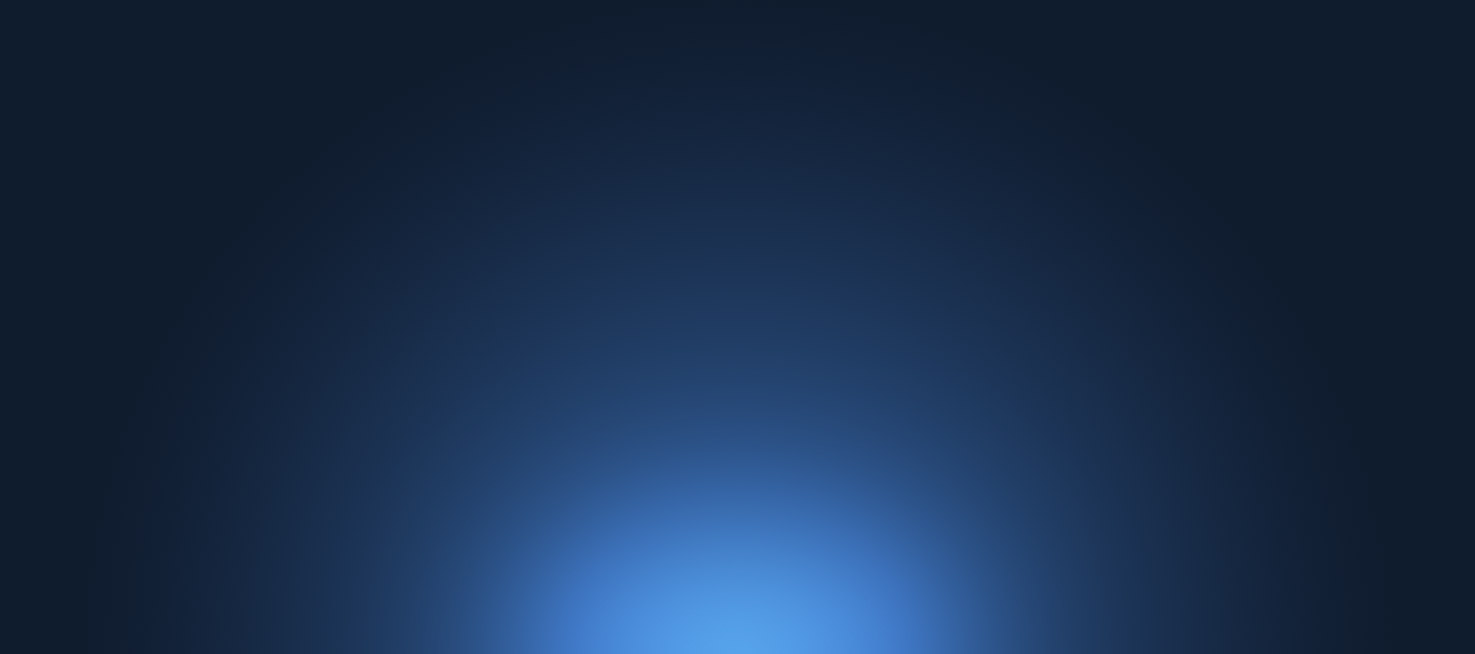
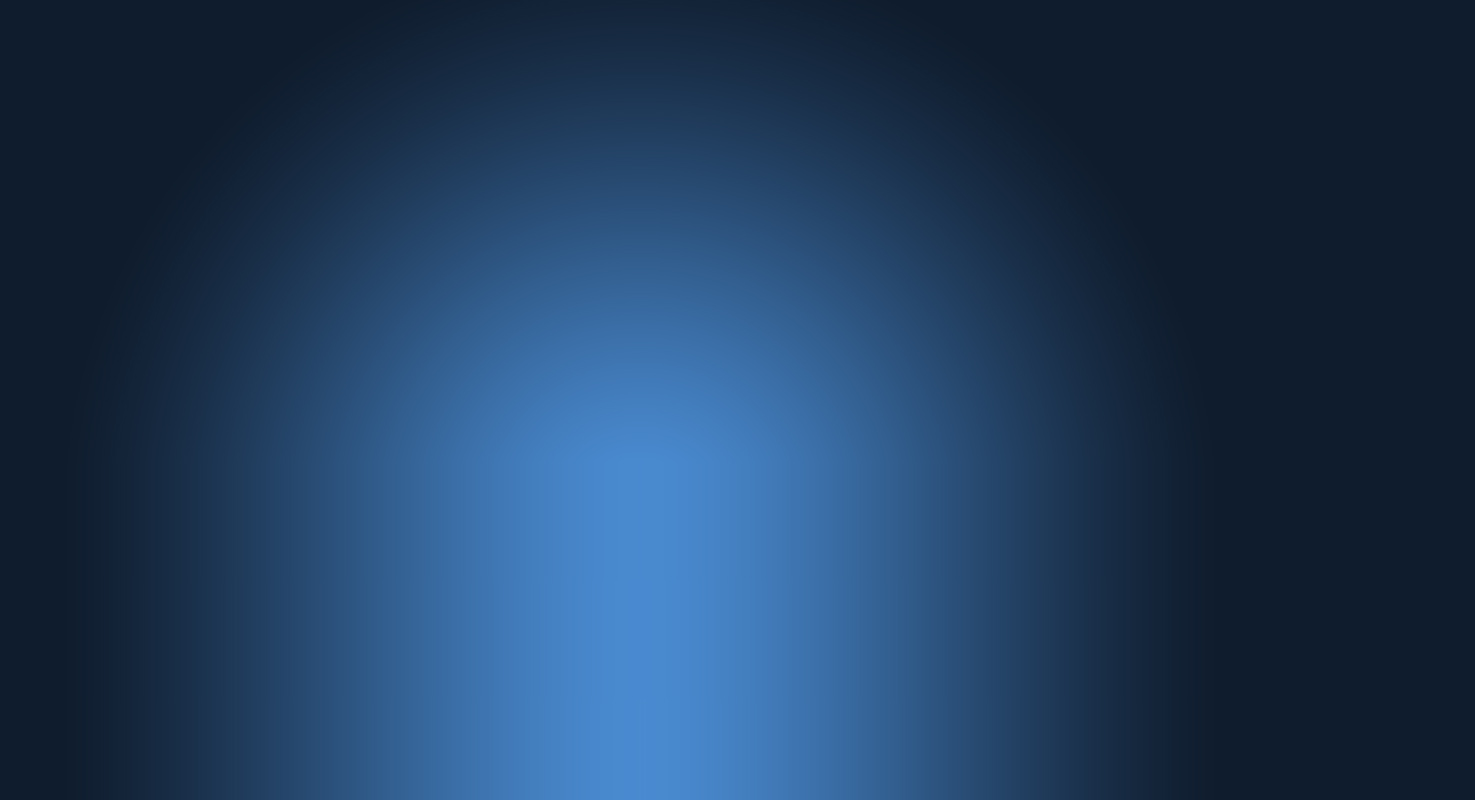
Updated Theme Footer, background image, and navigation portlet style

diff --git a/themes/justlift2-theme/docroot/_diffs/css/custom.css b/themes/justlift2-theme/docroot/_diffs/css/custom.css
@@ -11,17 +11,18 @@
 }
 
 html {
-	background: #0f1C2D url(../images/custom/bg.jpg) 0 100% no-repeat;
-	background-attachment: fixed;
+	background: url(../images/custom/bg-repeat.jpg) 0 100% repeat-y;
 }
 
 body {
-	background: none;
+	background: url(../images/custom/bg.jpg) 50% 0 no-repeat;
+	background-attachment: fixed;
 	font: 12px/1 Arial, helvetica;
 }
 
 #wrapper {
 	margin: 0 auto;
+	padding-top: 35px;
 	position: relative;
 	width: 960px;
 }
@@ -35,7 +36,7 @@ body {
 }
 
 #heading .logo {
-	margin: 35px 0;
+	margin: 0 0 35px 0;
 }
 
 #navigation {
@@ -68,7 +69,7 @@ body {
 #sign-in {
 	color: #FFF;
 	position: absolute;
-	top: -20px;
+	top: 20px;
 	right: 0;
 	text-decoration: none;
 }
@@ -79,6 +80,7 @@ body {
 	-moz-border-radius: 5px;
 	-webkit-border-radius: 5px;
 	border-radius: 5px;
+	min-height: 500px;
 	padding: 10px;
 	z-index: 1;
 }
@@ -101,8 +103,9 @@ body {
 #footer {
 	background: #425E98;
 	display: block;
-	height: 300px;
+	height: 200px;
 	margin-top: -100px;
+	margin-bottom: -25px;
 	z-index: 0;
 }
 
@@ -184,4 +187,37 @@ body {
 .portlet-search select,
 .portlet-search .aui-button-holder  {
 	display: none;
+}
+
+/* -------- Nav Menu Portlet -------- */
+
+.nav-menu ul {
+	margin: 0;
+	padding-left: 0;
+	list-style: none;
+}
+
+.nav-menu ul li {
+	margin: 5px 0;
+}
+
+.nav-menu ul a {
+	background: #425E98;
+	-moz-border-radius: 5px;
+	-webkit-border-radius: 5px;
+	border-radius: 5px;
+	color: #FFF;
+	display: block;
+	margin: 3px 0;
+	padding: 10px;
+	text-decoration: none;
+}
+
+.nav-menu ul a:hover {
+	color: lightgrey;
+}
+
+.nav-menu ul ul li {
+	font-size: 10px;
+	margin: 5px 0;
 }
